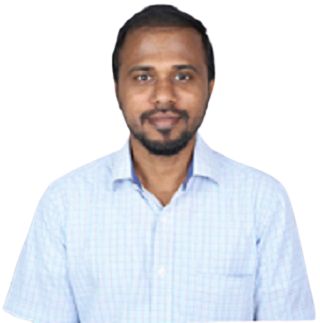
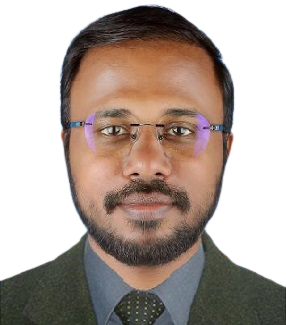
Aneesh sir photo updated in team database

diff --git a/storage/framework/views/79ed97aa913407d0abd5c06b578ec06e045dd005.php b/storage/framework/views/79ed97aa913407d0abd5c06b578ec06e045dd005.php
@@ -1,0 +1,20 @@
+
+<?php $__env->startSection('content'); ?>
+<br>
+<div class="container">
+    <div class="card shadow p-4 mb-5 bg-white rounded">
+        &emsp;
+        <h4 align="center">Edit <?php echo e($counsellor->name); ?> details</h4>
+
+        <div class="card-body">
+           <form action="/admin/home/counsellor/<?php echo e($counsellor->id); ?>/updateDetails" method="post" enctype="multipart/form-data">
+            <?php echo method_field('PATCH'); ?>
+            <?php echo csrf_field(); ?>
+            <?php echo $__env->make('counsellors.add', \Illuminate\Support\Arr::except(get_defined_vars(), ['__data', '__path']))->render(); ?>
+                <center><button  type="submit" class="btn btn-primary" style="background-color: #5768ad;">Submit</button></center>
+           </form>
+        </div>
+    </div>
+</div>
+<?php $__env->stopSection(); ?>
+<?php echo $__env->make('layouts.dashboard', \Illuminate\Support\Arr::except(get_defined_vars(), ['__data', '__path']))->render(); ?><?php /**PATH D:\Sahaayak\sahaayak\resources\views/counsellors/edit.blade.php ENDPATH**/ ?>

diff --git a/storage/framework/views/9a18f0a58cb5df0040b8ffa7b3587dc127b66e31.php b/storage/framework/views/9a18f0a58cb5df0040b8ffa7b3587dc127b66e31.php
@@ -288,7 +288,7 @@
                                     </ul>
                                 </li>
                                 <li><a href="<?php echo e(url('team')); ?>">Team</a>
-                                    <ul class="dropdown">
+                                    <ul class="dropdown" style="max-width: 175px;">
                                         <li><a href="<?php echo e(url('team#counsellors')); ?>">Counsellors</a></li>
                                         <li><a href="<?php echo e(url('team#sgc')); ?>">SGC</a></li>
                                         <li><a href="<?php echo e(url('team#team')); ?>">Team</a></li>
